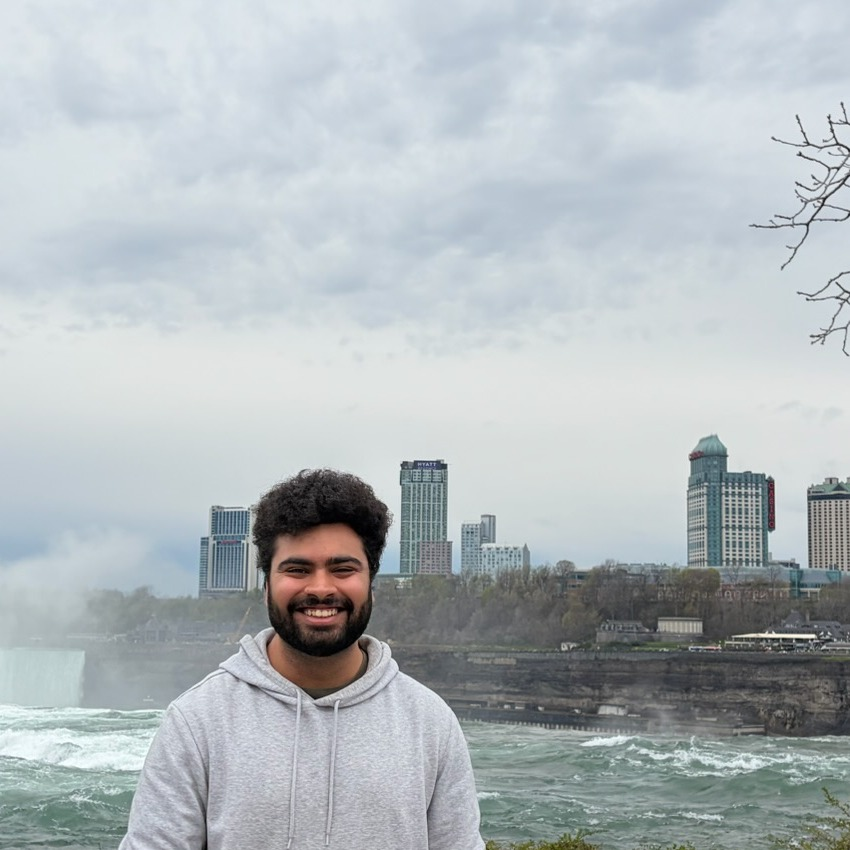
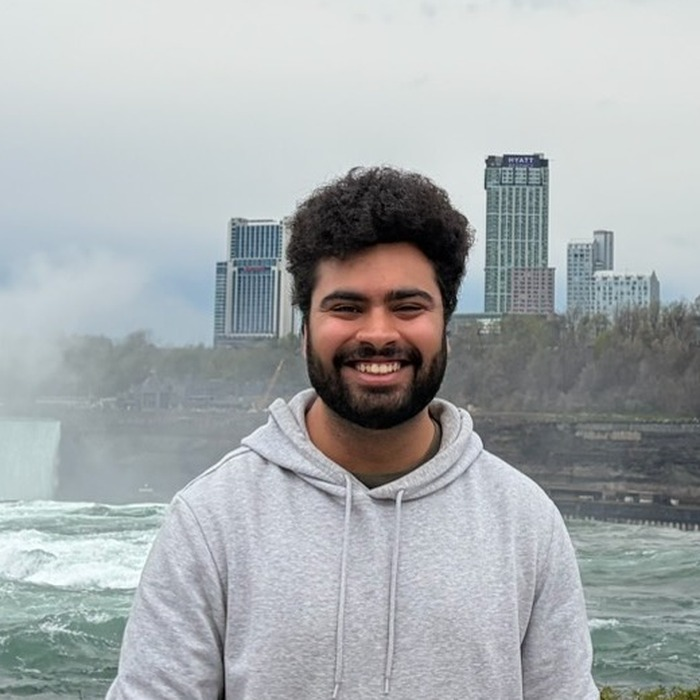
About page overhaul + profile image crop
- Profile image: cropped to center on face (removed excess sky)
- Bio: rewritten to be less AI-y, no em-dashes, updated topics
- Hobbies section added (F1, pool, football, indie/alt music, cooking)
- Topics of interest section added above selected pubs
- Social icons (LinkedIn, GitHub, Scholar, Resume) added to profile sidebar
- Bottom social bar disabled (social: false) to avoid duplication
- Selected pubs on about page: abs/arxiv/bib buttons hidden via CSS
- 3rd selected pub changed from T-BIOM to AppIntel (semseg)

diff --git a/_pages/about.md b/_pages/about.md
@@ -11,9 +11,15 @@ profile:
   more_info: >
     <p>Pittsburgh, PA</p>
     <p><a href="mailto:[email redacted]">[email redacted]</a></p>
+    <p style="margin-top:0.6rem; display:flex; gap:0.75rem; font-size:1.1rem;">
+      <a href="https://linkedin.com/in/tashvikdhamija" target="_blank" title="LinkedIn"><i class="fab fa-linkedin"></i></a>
+      <a href="https://github.com/TashvikDhamija" target="_blank" title="GitHub"><i class="fab fa-github"></i></a>
+      <a href="https://scholar.google.com/citations?user=LXSpE74AAAAJ&hl=en" target="_blank" title="Google Scholar"><i class="fas fa-graduation-cap"></i></a>
+      <a href="/assets/pdf/resume.pdf" target="_blank" title="Resume"><i class="fas fa-file-pdf"></i></a>
+    </p>
 
-selected_papers: true # includes a list of papers marked as "selected={true}"
-social: true # includes social icons at the bottom of the page
+selected_papers: true
+social: false
 
 announcements:
   enabled: false
@@ -22,6 +28,22 @@ latest_posts:
   enabled: false
 ---
 
-I am a Master's student in Artificial Intelligence and Innovation at Carnegie Mellon University's School of Computer Science, where I work at the intersection of generative AI, computer vision, and efficient deep learning systems. My research spans diffusion models, causal interpretability in robot learning, and zero-shot detection methods. Currently, I am an ML Intern at Amazon AWS Annapurna Labs, enabling state-of-the-art diffusion and flow-matching model training on Trainium hardware.
+<style>
+.publications .links { display: none; }
+</style>
 
-Before CMU, I co-founded an AI startup at Inria Startup Studio, building real-time audio-driven avatar generation systems that were showcased at VivaTech (Paris) and Bits & Pretzels (Munich). I have published across top venues including IJCV, IEEE T-BIOM, and Applied Intelligence, with over 128 citations. I am actively exploring opportunities in ML engineering and applied AI research — feel free to reach out.
+I am a Master's student in Artificial Intelligence and Innovation at Carnegie Mellon University's School of Computer Science. I work on generative AI, computer vision, and scalable deep learning systems. Currently an ML Intern at AWS Annapurna Labs, where I am enabling diffusion and flow-matching model training on Trainium hardware.
+
+Before CMU, I co-founded an AI startup at Inria Startup Studio, building audio-driven video avatar generation systems showcased at VivaTech (Paris) and Bits & Pretzels (Munich). I have published in IJCV, IEEE T-BIOM, and Applied Intelligence, with work spanning video/image generation and detection, robot learning, and biometric restoration.
+
+<br>
+
+**Hobbies**
+
+Formula 1, pool, football (soccer), indie and alt music, cooking.
+
+<br>
+
+**Topics of Interest**
+
+Computer vision &nbsp;·&nbsp; Large-scale model training &nbsp;·&nbsp; Robot learning &nbsp;·&nbsp; Diffusion and flow matching